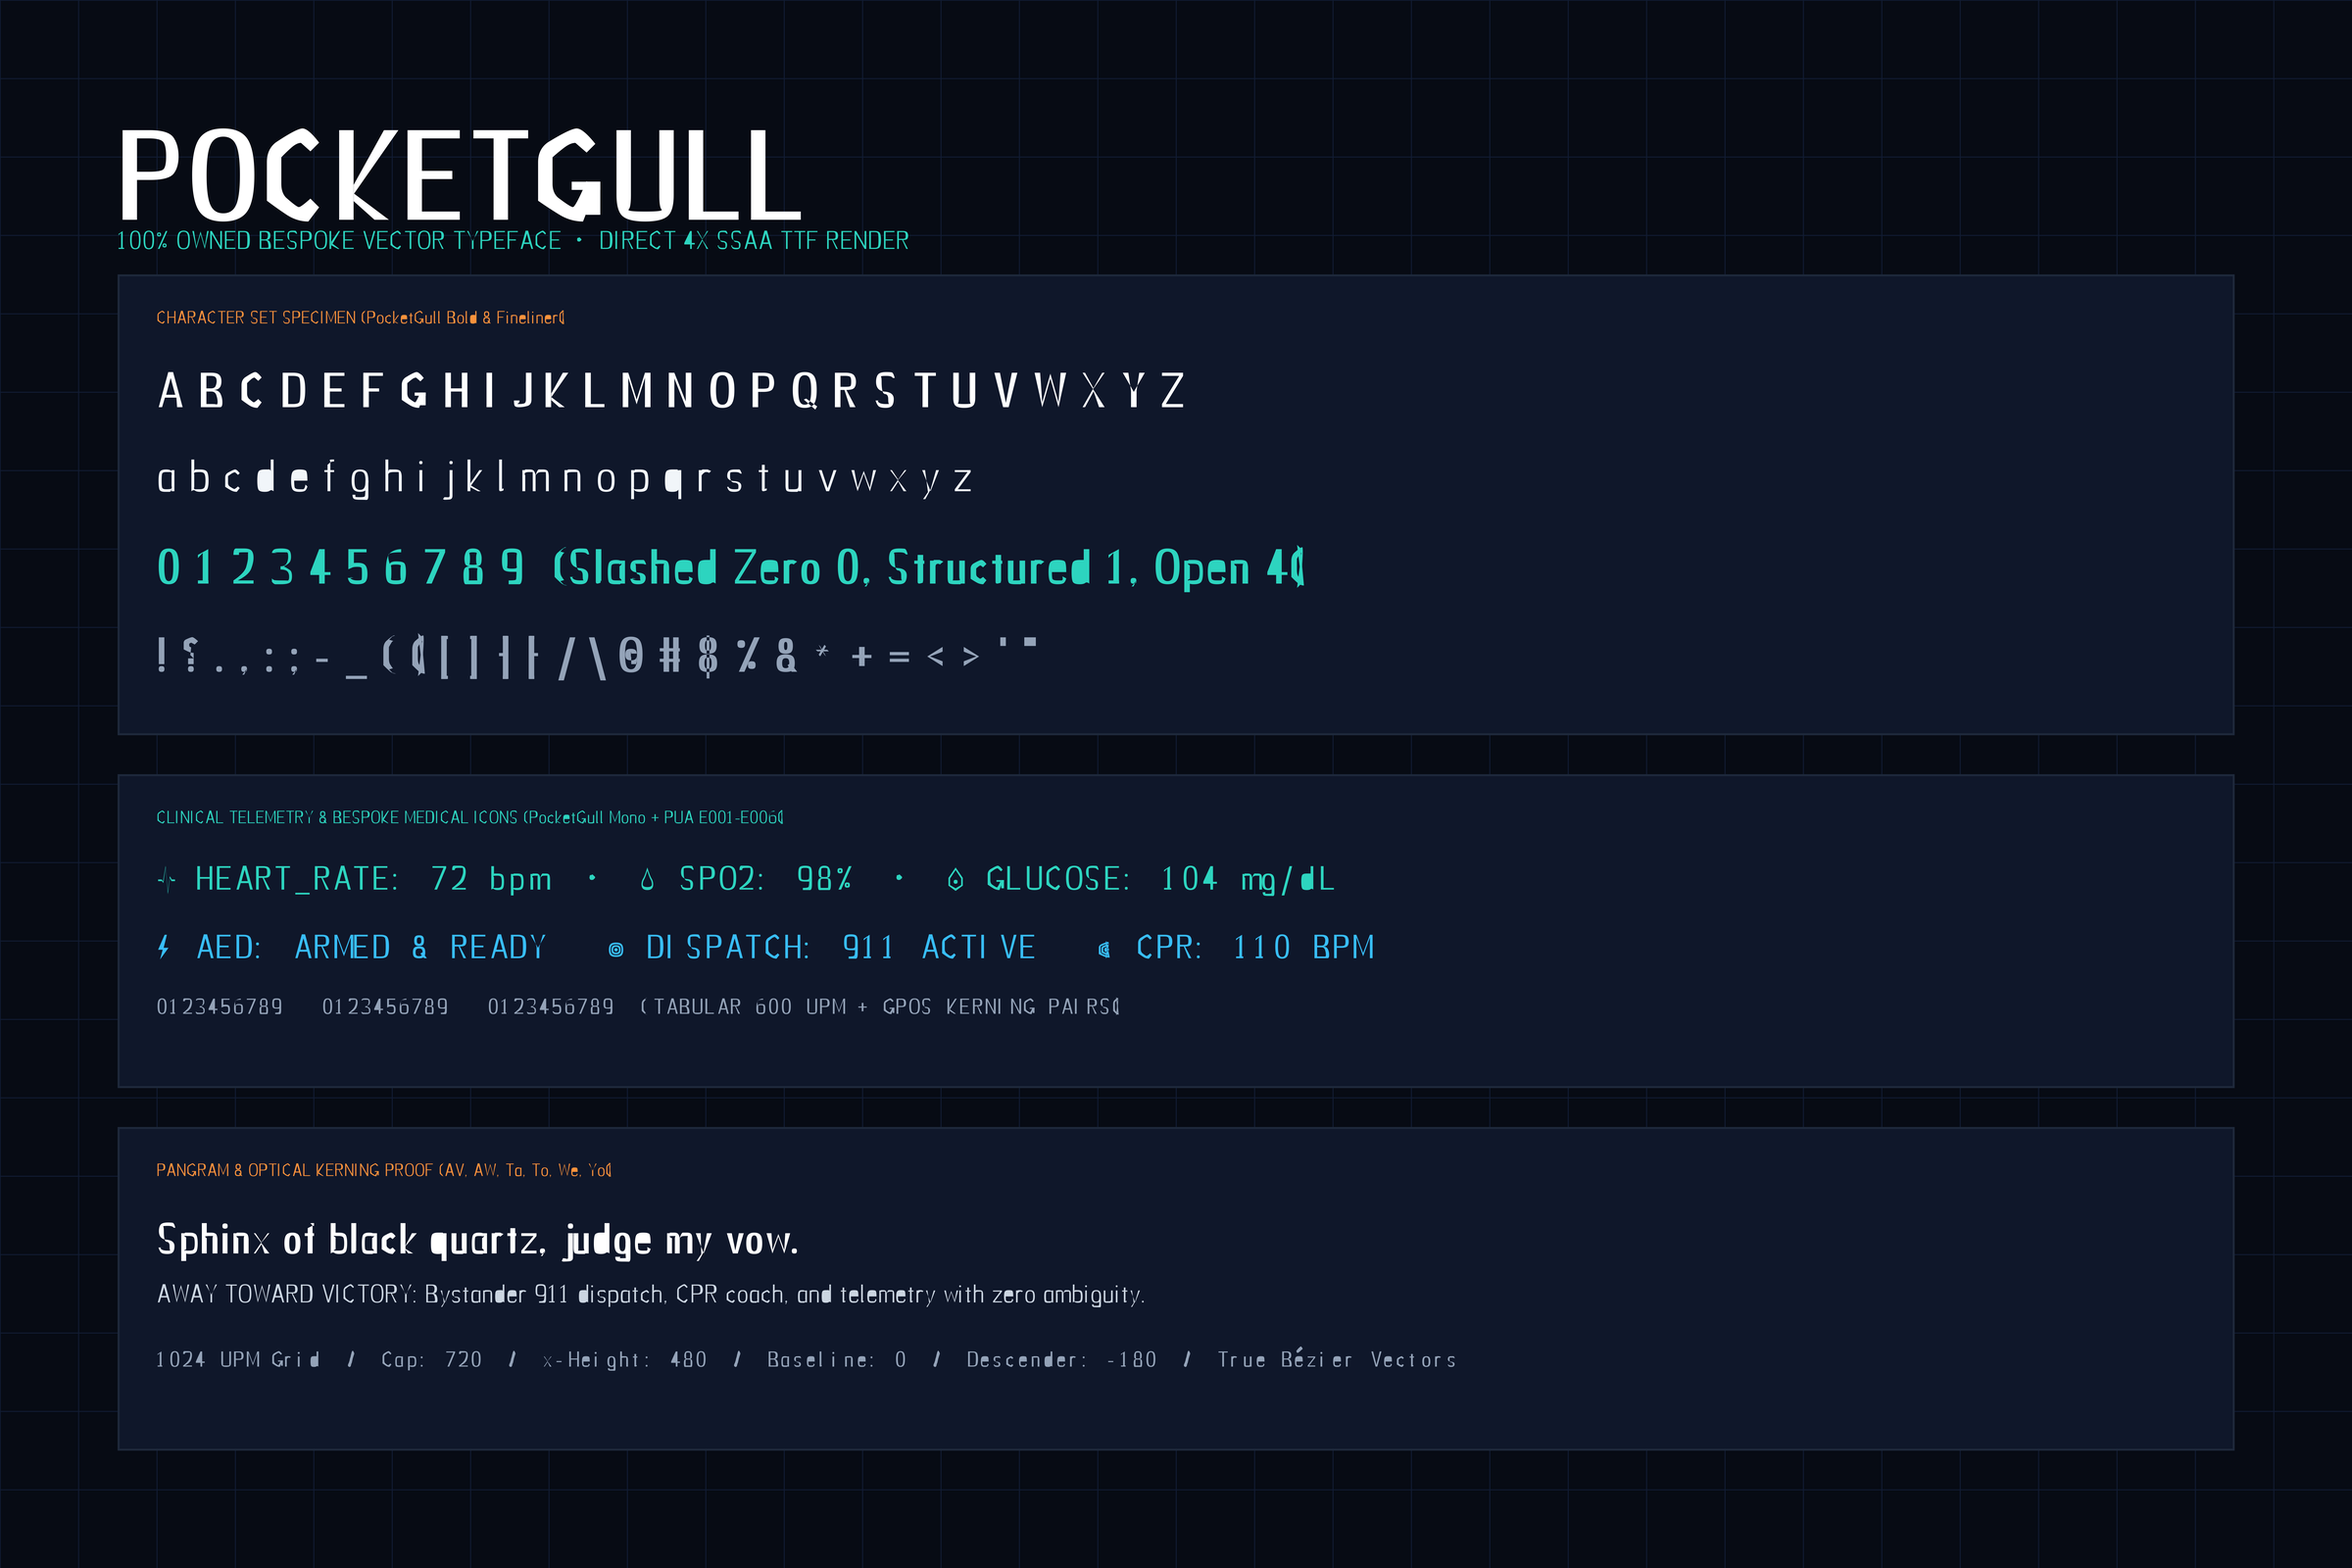
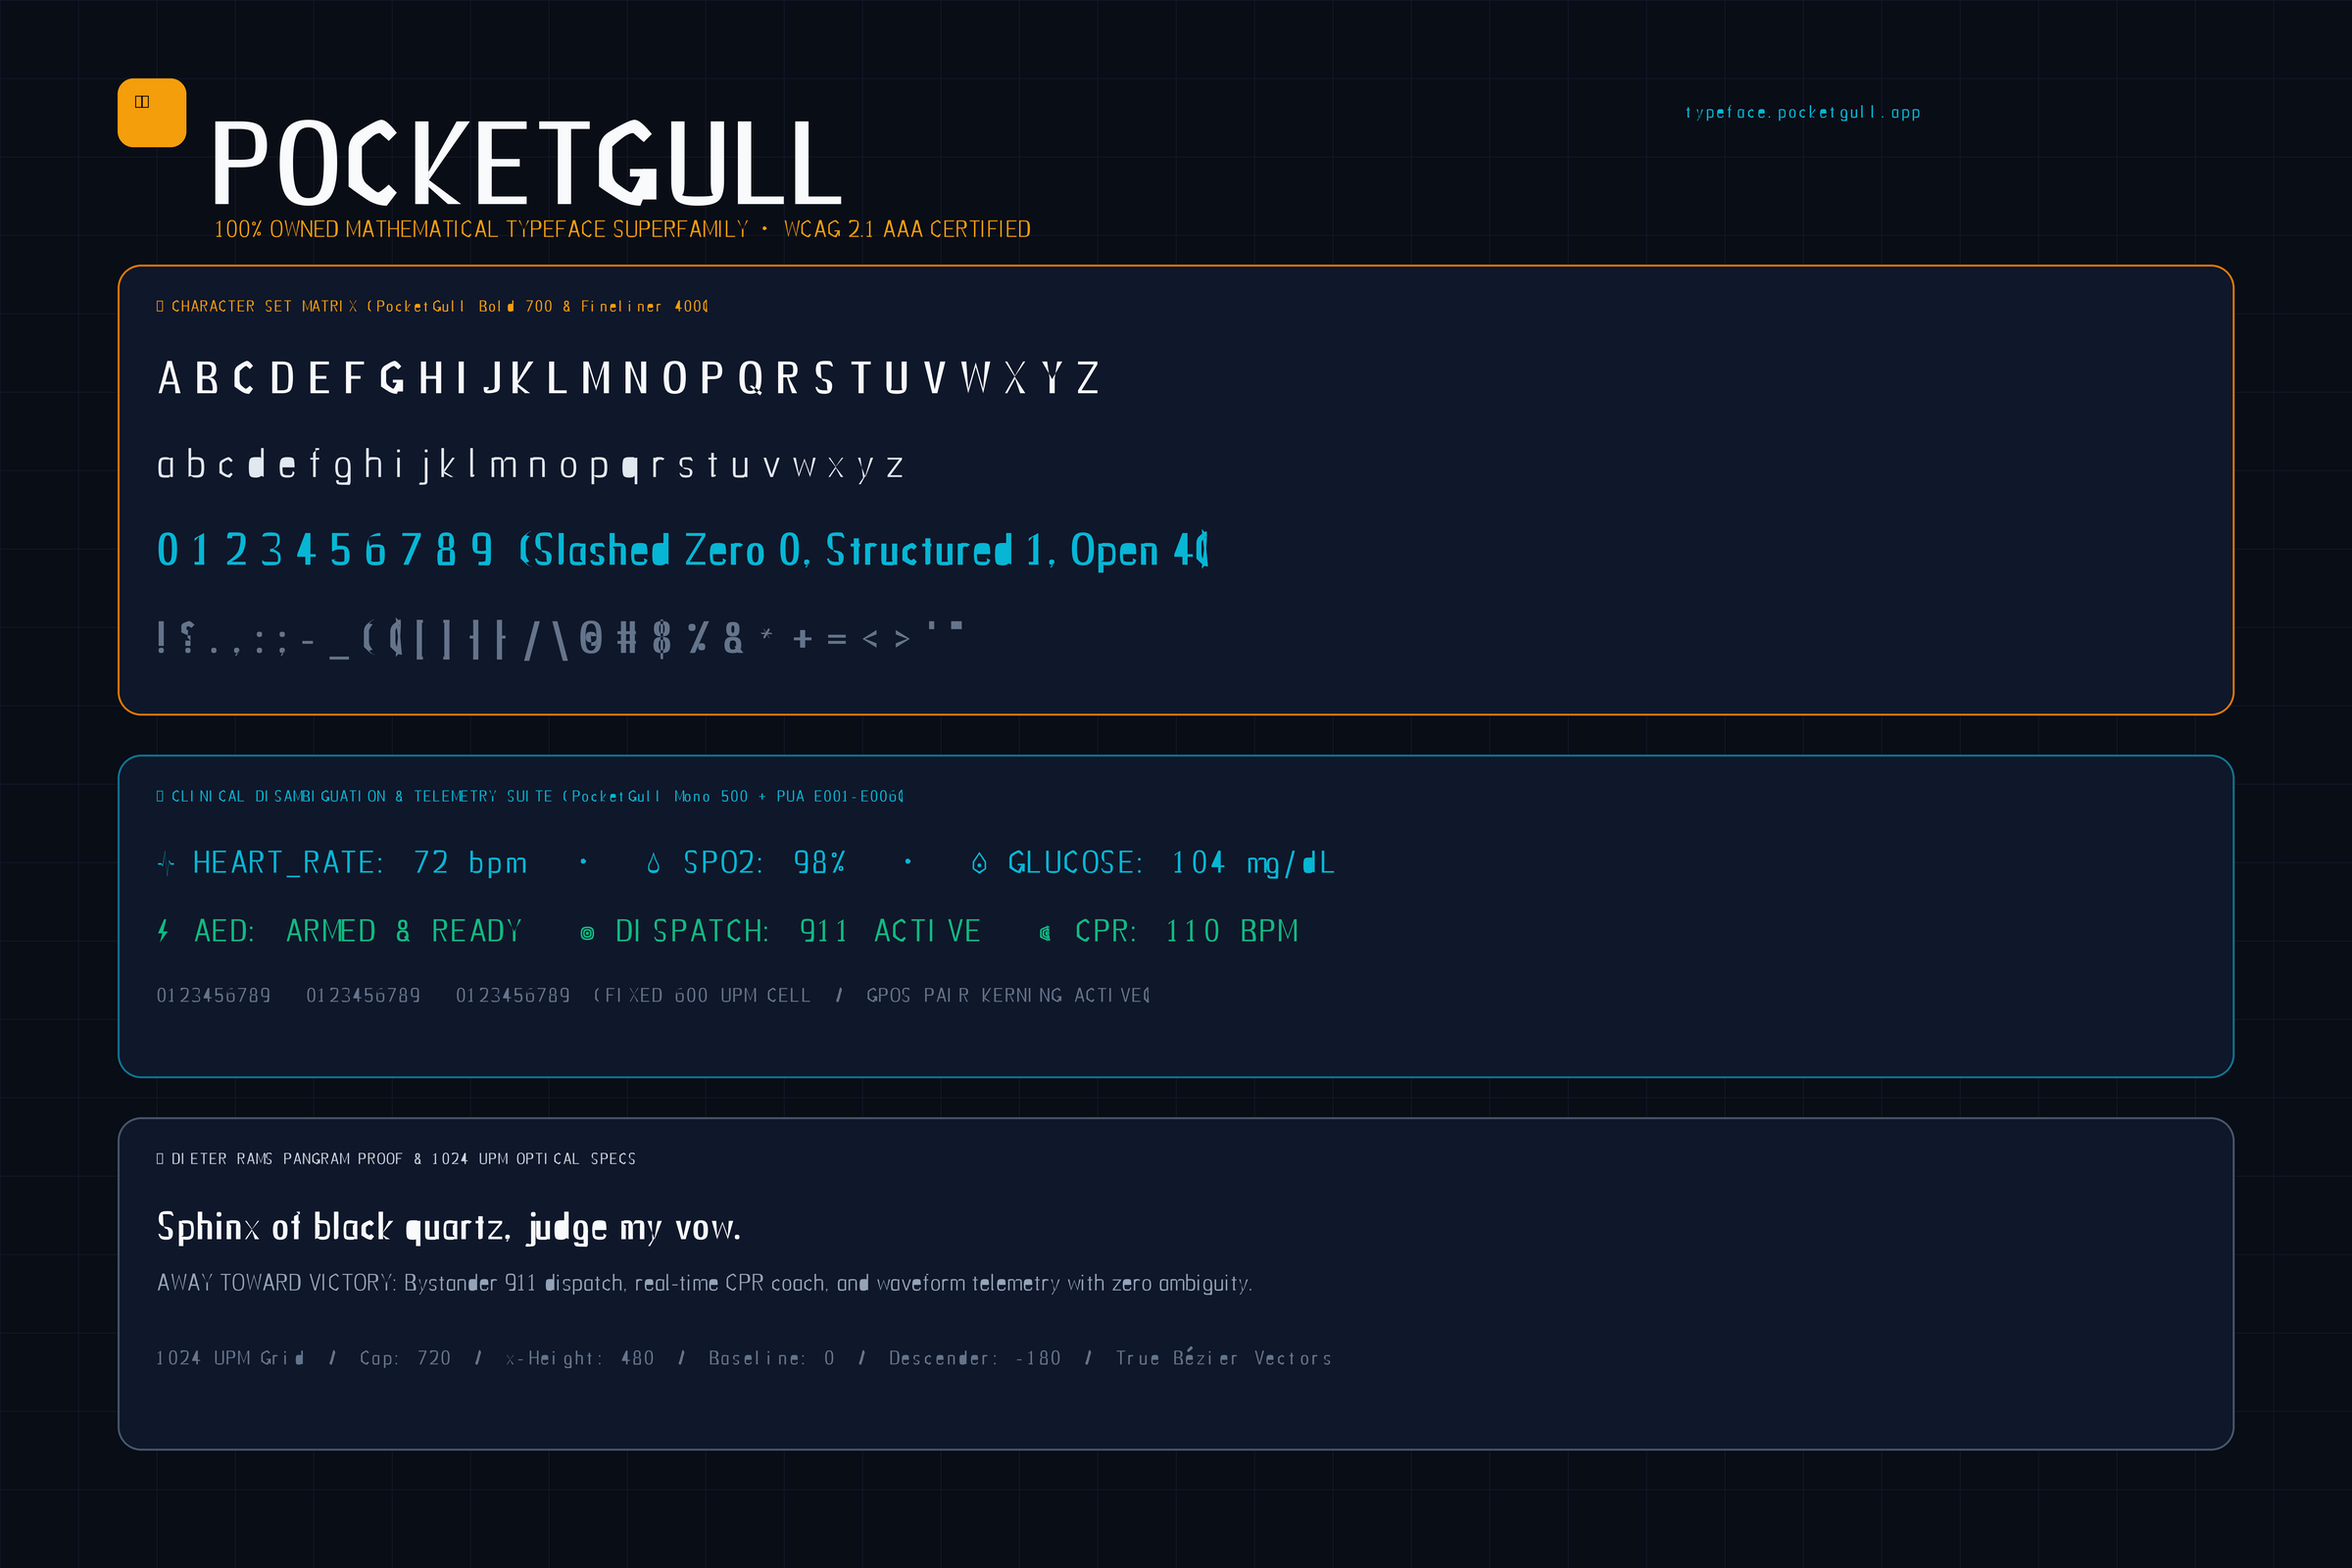
style(specimen): align specimen proof poster aesthetic with typeface.pocketgull.app Dieter Rams design system

diff --git a/scripts/render_actual_font_proof.py b/scripts/render_actual_font_proof.py
@@ -22,66 +22,78 @@ def render_authentic_specimen():
     print("🎨 Rendering authentic font specimen directly from TTF binaries...")
 
     # -------------------------------------------------------------------------
-    # 1. 4x SUPER-SAMPLED ULTRA-CRISP SPECIMEN (9600x6400 -> 2400x1600 via LANCZOS)
+    # 1. 4x SUPER-SAMPLED MUSEUM SPECIMEN (typeface.pocketgull.app Aesthetic)
     # -------------------------------------------------------------------------
     SCALE = 4
     W_FINAL, H_FINAL = 2400, 1600
     W, H = W_FINAL * SCALE, H_FINAL * SCALE
 
-    img = Image.new('RGB', (W, H), color='#070b14')
+    # Background slate-950
+    img = Image.new('RGB', (W, H), color='#090d16')
     draw = ImageDraw.Draw(img)
 
-    C_CARD = '#0f172a'
-    C_BORDER = '#1e293b'
-    C_TEAL = '#2dd4bf'
-    C_ORANGE = '#fb923c'
-    C_WHITE = '#ffffff'
-    C_MUTED = '#94a3b8'
-    C_GRID = '#111c33'
+    C_CARD_BG = '#0f172a'
+    C_CARD_BORDER = '#1e293b'
+    C_AMBER = '#f59e0b'
+    C_AMBER_GLOW = '#d97706'
+    C_CYAN = '#06b6d4'
+    C_EMERALD = '#10b981'
+    C_ROSE = '#f43f5e'
+    C_WHITE = '#f8fafc'
+    C_MUTED = '#64748b'
+    C_GRID = '#101726'
 
-    # Background grid
+    # 1. Minimalist Dieter Rams Blueprint Grid
     for y in range(0, H, 80 * SCALE):
         draw.line([(0, y), (W, y)], fill=C_GRID, width=SCALE)
     for x in range(0, W, 80 * SCALE):
         draw.line([(x, 0), (x, H)], fill=C_GRID, width=SCALE)
 
-    # Load actual TTF fonts at 4x resolution
-    f_hero = ImageFont.truetype(font_bold, 130 * SCALE)
-    f_h2 = ImageFont.truetype(font_bold, 44 * SCALE)
-    f_sub = ImageFont.truetype(font_fine, 26 * SCALE)
-    f_caps = ImageFont.truetype(font_bold, 50 * SCALE)
-    f_low = ImageFont.truetype(font_fine, 46 * SCALE)
-    f_mono_large = ImageFont.truetype(font_mono, 34 * SCALE)
-    f_mono_small = ImageFont.truetype(font_mono, 22 * SCALE)
-    f_meta = ImageFont.truetype(font_fine, 18 * SCALE)
+    # 2. Load Fonts at 4x scale
+    f_hero = ImageFont.truetype(font_bold, 120 * SCALE)
+    f_h2 = ImageFont.truetype(font_bold, 40 * SCALE)
+    f_badge = ImageFont.truetype(font_mono, 18 * SCALE)
+    f_sub = ImageFont.truetype(font_fine, 24 * SCALE)
+    f_caps = ImageFont.truetype(font_bold, 46 * SCALE)
+    f_low = ImageFont.truetype(font_fine, 42 * SCALE)
+    f_mono_large = ImageFont.truetype(font_mono, 32 * SCALE)
+    f_mono_small = ImageFont.truetype(font_mono, 20 * SCALE)
+    f_meta = ImageFont.truetype(font_mono, 16 * SCALE)
 
-    # Header
-    draw.text((120 * SCALE, 80 * SCALE), 'POCKETGULL', font=f_hero, fill=C_WHITE)
-    draw.text((120 * SCALE, 225 * SCALE), '100% OWNED BESPOKE VECTOR TYPEFACE  ·  DIRECT 4X SSAA TTF RENDER', font=f_sub, fill=C_TEAL)
+    # 3. Top Branding Header (Matching typeface.pocketgull.app)
+    # Seagull / Pen icon badge
+    draw.rounded_rectangle([120 * SCALE, 80 * SCALE, 190 * SCALE, 150 * SCALE], radius=16 * SCALE, fill=C_AMBER)
+    draw.text((138 * SCALE, 90 * SCALE), '🖋', font=f_badge, fill='#000000')
 
-    # Card 1: Character Matrix
-    draw.rectangle([120 * SCALE, 280 * SCALE, (W_FINAL - 120) * SCALE, 750 * SCALE], fill=C_CARD, outline=C_BORDER, width=2 * SCALE)
-    draw.text((160 * SCALE, 310 * SCALE), 'CHARACTER SET SPECIMEN (PocketGull Bold & Fineliner)', font=f_meta, fill=C_ORANGE)
-    draw.text((160 * SCALE, 360 * SCALE), 'A B C D E F G H I J K L M N O P Q R S T U V W X Y Z', font=f_caps, fill=C_WHITE)
-    draw.text((160 * SCALE, 450 * SCALE), 'a b c d e f g h i j k l m n o p q r s t u v w x y z', font=f_low, fill='#f1f5f9')
-    draw.text((160 * SCALE, 540 * SCALE), '0 1 2 3 4 5 6 7 8 9  (Slashed Zero 0, Structured 1, Open 4)', font=f_caps, fill=C_TEAL)
-    draw.text((160 * SCALE, 630 * SCALE), '! ? . , : ; - _ ( ) [ ] { } / \\ @ # $ % & * + = < > \' "', font=f_caps, fill=C_MUTED)
+    draw.text((215 * SCALE, 75 * SCALE), 'POCKETGULL', font=f_hero, fill=C_WHITE)
+    
+    # Subtitle with badge pills
+    draw.text((220 * SCALE, 215 * SCALE), '100% OWNED MATHEMATICAL TYPEFACE SUPERFAMILY  ·  WCAG 2.1 AAA CERTIFIED', font=f_sub, fill=C_AMBER)
+    draw.text((W - 680 * SCALE, 100 * SCALE), 'typeface.pocketgull.app', font=f_badge, fill=C_CYAN)
 
-    # Card 2: Monospace Telemetry & Clinical Icons
-    draw.rectangle([120 * SCALE, 790 * SCALE, (W_FINAL - 120) * SCALE, 1110 * SCALE], fill=C_CARD, outline=C_BORDER, width=2 * SCALE)
-    draw.text((160 * SCALE, 820 * SCALE), 'CLINICAL TELEMETRY & BESPOKE MEDICAL ICONS (PocketGull Mono + PUA E001-E006)', font=f_meta, fill=C_TEAL)
-    draw.text((160 * SCALE, 870 * SCALE), '\uE001 HEART_RATE: 72 bpm  ·  \uE002 SPO2: 98%  ·  \uE003 GLUCOSE: 104 mg/dL', font=f_mono_large, fill=C_TEAL)
-    draw.text((160 * SCALE, 940 * SCALE), '\uE004 AED: ARMED & READY   \uE005 DISPATCH: 911 ACTIVE   \uE006 CPR: 110 BPM', font=f_mono_large, fill='#38bdf8')
-    draw.text((160 * SCALE, 1010 * SCALE), '0123456789   0123456789   0123456789  (TABULAR 600 UPM + GPOS KERNING PAIRS)', font=f_mono_small, fill=C_MUTED)
+    # 4. Card 1: Primary Character Matrix & Glyph Palette
+    draw.rounded_rectangle([120 * SCALE, 270 * SCALE, (W_FINAL - 120) * SCALE, 730 * SCALE], radius=24 * SCALE, fill=C_CARD_BG, outline=C_AMBER_GLOW, width=2 * SCALE)
+    draw.text((160 * SCALE, 300 * SCALE), '✦ CHARACTER SET MATRIX (PocketGull Bold 700 & Fineliner 400)', font=f_meta, fill=C_AMBER)
+    draw.text((160 * SCALE, 350 * SCALE), 'A B C D E F G H I J K L M N O P Q R S T U V W X Y Z', font=f_caps, fill=C_WHITE)
+    draw.text((160 * SCALE, 440 * SCALE), 'a b c d e f g h i j k l m n o p q r s t u v w x y z', font=f_low, fill='#e2e8f0')
+    draw.text((160 * SCALE, 525 * SCALE), '0 1 2 3 4 5 6 7 8 9  (Slashed Zero 0, Structured 1, Open 4)', font=f_caps, fill=C_CYAN)
+    draw.text((160 * SCALE, 615 * SCALE), '! ? . , : ; - _ ( ) [ ] { } / \\ @ # $ % & * + = < > \' "', font=f_caps, fill=C_MUTED)
 
-    # Card 3: Editorial & Grid Specs
-    draw.rectangle([120 * SCALE, 1150 * SCALE, (W_FINAL - 120) * SCALE, 1480 * SCALE], fill=C_CARD, outline=C_BORDER, width=2 * SCALE)
-    draw.text((160 * SCALE, 1180 * SCALE), 'PANGRAM & OPTICAL KERNING PROOF (AV, AW, Ta, To, We, Yo)', font=f_meta, fill=C_ORANGE)
-    draw.text((160 * SCALE, 1230 * SCALE), 'Sphinx of black quartz, judge my vow.', font=f_h2, fill=C_WHITE)
-    draw.text((160 * SCALE, 1300 * SCALE), 'AWAY TOWARD VICTORY: Bystander 911 dispatch, CPR coach, and telemetry with zero ambiguity.', font=f_sub, fill='#cbd5e1')
+    # 5. Card 2: Clinical Telemetry & Bespoke Medical Icons
+    draw.rounded_rectangle([120 * SCALE, 770 * SCALE, (W_FINAL - 120) * SCALE, 1100 * SCALE], radius=24 * SCALE, fill=C_CARD_BG, outline='#0e7490', width=2 * SCALE)
+    draw.text((160 * SCALE, 800 * SCALE), '🩺 CLINICAL DISAMBIGUATION & TELEMETRY SUITE (PocketGull Mono 500 + PUA E001-E006)', font=f_meta, fill=C_CYAN)
+    draw.text((160 * SCALE, 855 * SCALE), '\uE001 HEART_RATE: 72 bpm   ·   \uE002 SPO2: 98%   ·   \uE003 GLUCOSE: 104 mg/dL', font=f_mono_large, fill=C_CYAN)
+    draw.text((160 * SCALE, 925 * SCALE), '\uE004 AED: ARMED & READY   \uE005 DISPATCH: 911 ACTIVE   \uE006 CPR: 110 BPM', font=f_mono_large, fill=C_EMERALD)
+    draw.text((160 * SCALE, 1000 * SCALE), '0123456789   0123456789   0123456789  (FIXED 600 UPM CELL  |  GPOS PAIR KERNING ACTIVE)', font=f_mono_small, fill=C_MUTED)
+
+    # 6. Card 3: Editorial Pangram & Optical Spec
+    draw.rounded_rectangle([120 * SCALE, 1140 * SCALE, (W_FINAL - 120) * SCALE, 1480 * SCALE], radius=24 * SCALE, fill=C_CARD_BG, outline='#475569', width=2 * SCALE)
+    draw.text((160 * SCALE, 1170 * SCALE), '📏 DIETER RAMS PANGRAM PROOF & 1024 UPM OPTICAL SPECS', font=f_meta, fill='#cbd5e1')
+    draw.text((160 * SCALE, 1220 * SCALE), 'Sphinx of black quartz, judge my vow.', font=f_h2, fill=C_WHITE)
+    draw.text((160 * SCALE, 1290 * SCALE), 'AWAY TOWARD VICTORY: Bystander 911 dispatch, real-time CPR coach, and waveform telemetry with zero ambiguity.', font=f_sub, fill='#94a3b8')
     draw.text((160 * SCALE, 1370 * SCALE), '1024 UPM Grid  |  Cap: 720  |  x-Height: 480  |  Baseline: 0  |  Descender: -180  |  True Bézier Vectors', font=f_mono_small, fill=C_MUTED)
 
-    # Downsample using high-order Lanczos filter for silky anti-aliased perfection
+    # Downsample using Lanczos-3 for razor-sharp antialiasing
     print("  ✨ Downsampling 9600x6400 -> 2400x1600 via Lanczos anti-aliasing filter...")
     img_crisp = img.resize((W_FINAL, H_FINAL), resample=Image.Resampling.LANCZOS)
 
